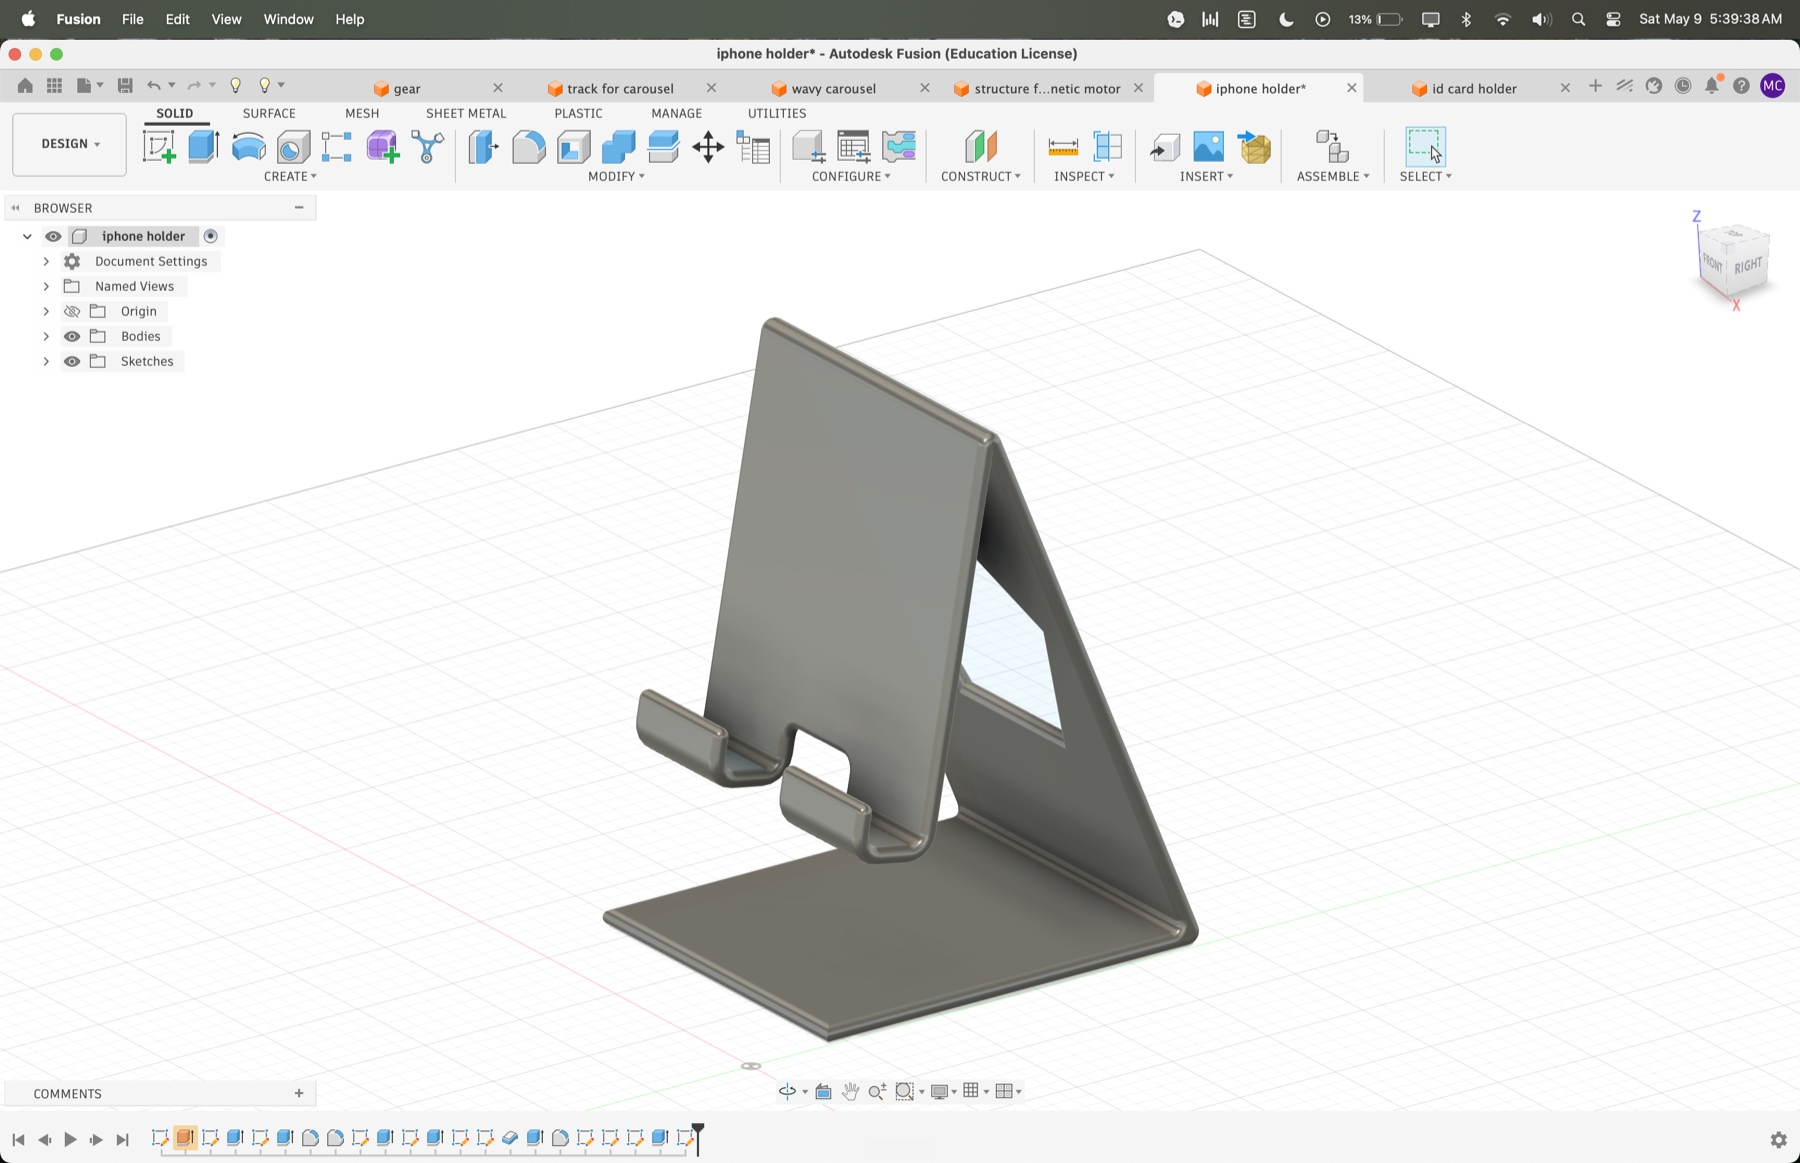
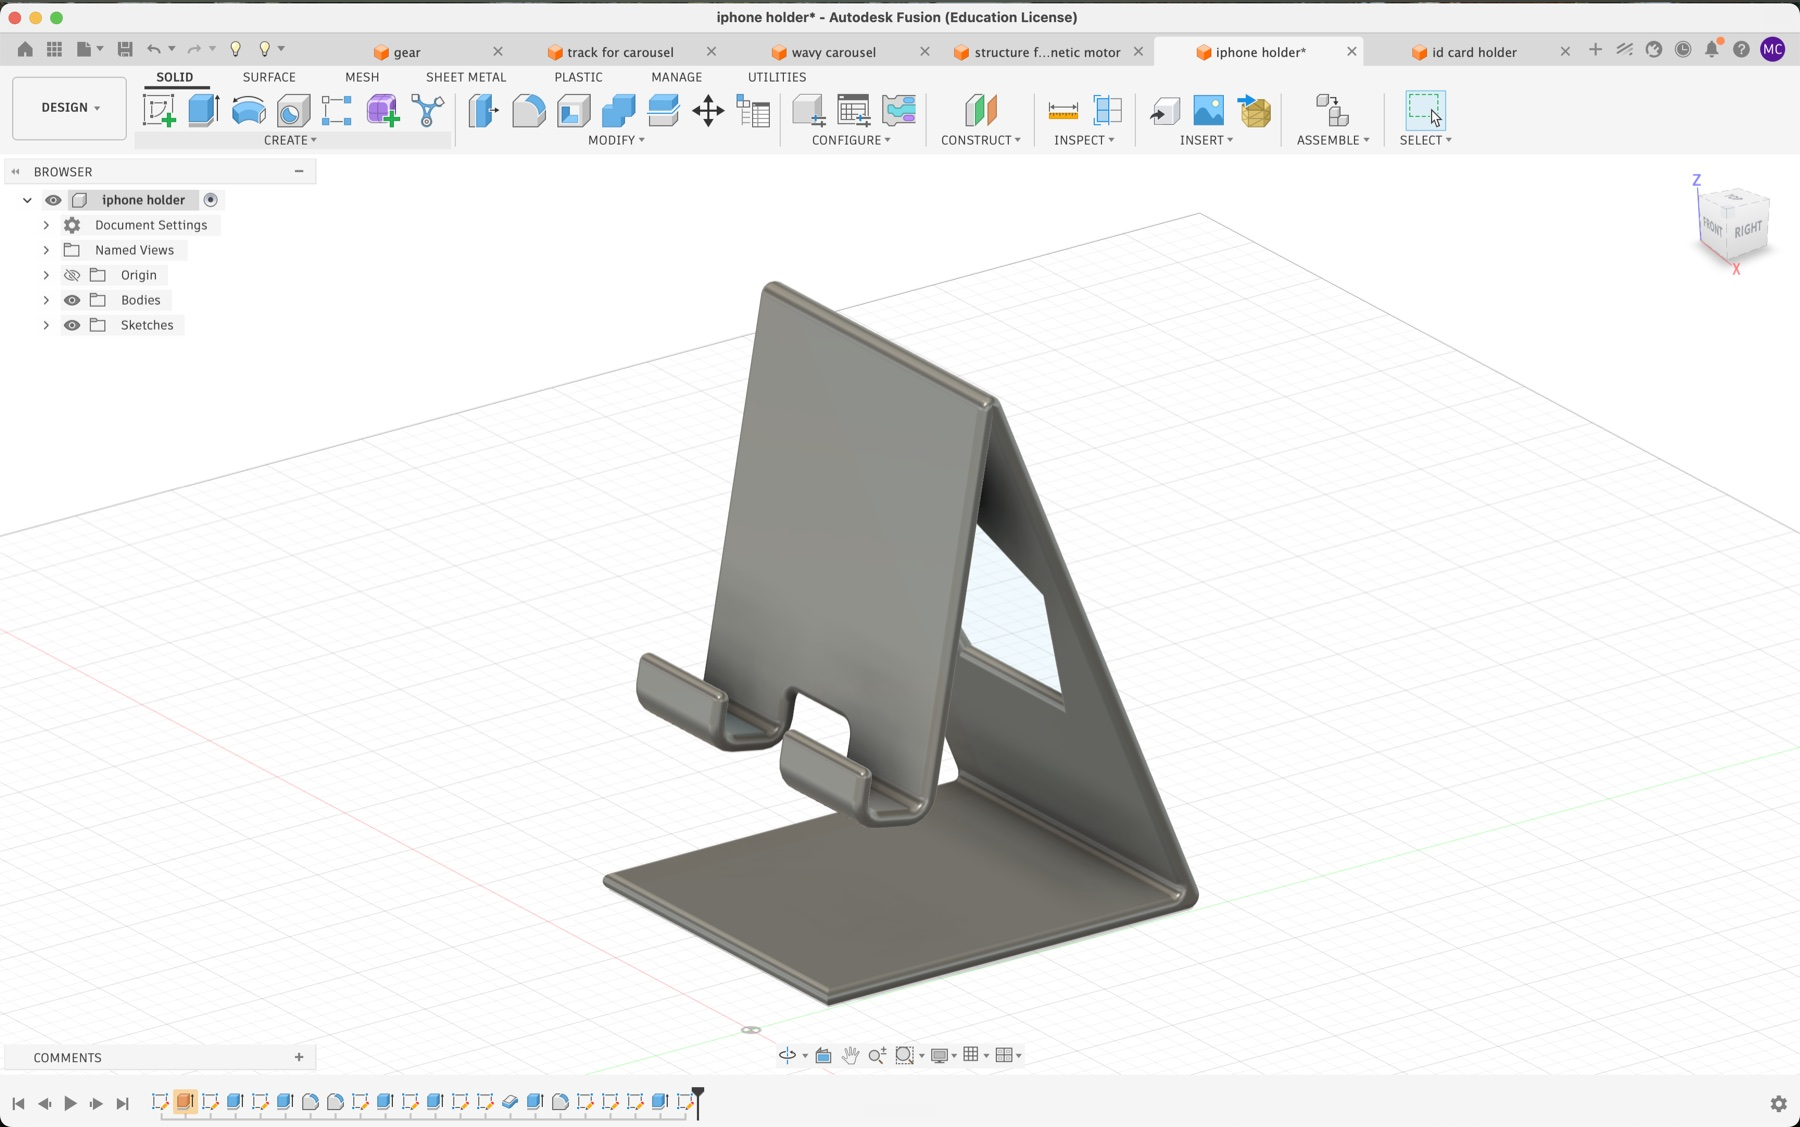
added week 5  edits

diff --git a/05_3Ddesign/index.html b/05_3Ddesign/index.html
@@ -125,13 +125,58 @@
   <figcaption>Photogrammetry scan of my face. The black hair did not capture well, but the face and neck came out well.</figcaption>
 </figure>
 
-<p><strong>Scan 1: My face.</strong> This was harder than I expected because I have black hair, and the scanner doesn't pick up dark surfaces well since there is not a lot of light reflecting back. The hair came out rough, but I got a nice clean scan of my face and neck.</p>
+<p><strong>Scan 1: My face.</strong> This was harder than I expected because I have black hair, and the scanner doesn't pick up dark surfaces well since there is not a lot of light reflecting back. The hair came out rough, but I got a nice clean scan of my face and neck. I couldn't embed the STL of my face because the file was too large, and viewstl.com has a maximum file size of 30 MB.</p>
+
 <p><strong>Scan 2: The Greek/Roman bust.</strong> I looked around the PS70 lab for objects that would be hard to recreate in Fusion the normal way, and found a bust of a Greek or Roman man sitting around. I did a trial scan on him and used the mesh isolation and fusion tools in RevoScan to clean up the extraneous parts of the scan I didn't want.</p>
+
+<figure class="video-embed">
+  <iframe id="bust_stl_iframe" src="https://www.viewstl.com/?embedded&amp;url=https%3A%2F%2Fmatthewchang0.github.io%2FPS70%2F05_3Ddesign%2Fbust-3dscan.stl" title="STL viewer for Greek or Roman bust scan" style="border:0;margin:0;width:100%;height:420px;"></iframe>
+  <figcaption>Embedded STL viewer for the Greek/Roman bust scan</figcaption>
+</figure>
+
 <p><strong>Scan 3: An SD card holder.</strong> I picked this one because it has a lot of small details that I thought would be tedious to model in CAD. The scan actually did a great job capturing the details, which I thought was impressive given how small the features are.</p>
 
-<h2>Reflection</h2>
-<p>The useful-object constraint made this assignment much more satisfying. The iPhone stand was a confidence boost because it went from sketch to CAD to a print that actually solves a small daily annoyance. The keycard holder was more stubborn, but it taught me a lot about tolerances, supports, and how much detail a printer can realistically resolve.</p>
-<p>The photogrammetry scans were the biggest surprise. I expected the results to feel rough and gimmicky, but RevoScan was able to preserve much more geometry than I thought it would, especially on the smaller SD card holder.</p>
+<figure class="video-embed">
+  <iframe id="sdcard_stl_iframe" src="https://www.viewstl.com/?embedded&amp;url=https%3A%2F%2Fmatthewchang0.github.io%2FPS70%2F05_3Ddesign%2Fsdcard-holder-3dscan.stl" title="STL viewer for SD card holder scan" style="border:0;margin:0;width:100%;height:420px;"></iframe>
+  <figcaption>Embedded STL viewer for the SD card holder scan</figcaption>
+</figure>
+
+<h2>Assignment 3: Final Project Updates</h2>
+<p>For my final project, I'm going to build a radio, which is something I've always wanted to make. The plan is to start with an MVP that's purely an internet radio, using Wi-Fi and some streaming API, and then expand outward from there. Eventually I want it to support real FM radio waves, Bluetooth audio, and MP3 playback from files stored on an SD card inside the radio itself.</p>
+<p>Here are the 3D models for the radio enclosure that I have right now. Eventually, I will need to have a larger enclosure, but this should suffice for the MVP.</p>
+
+<h3>Bill of Materials</h3>
+<p><strong>Electronics</strong></p>
+<ul>
+  <li>ESP32-S3 DevKit-C</li>
+  <li>MAX98357A I2S Amplifier</li>
+  <li>TEA5767 FM Radio Module</li>
+  <li>MicroSD Card Module</li>
+  <li>MicroSD Card</li>
+  <li>OLED Display 2.42"</li>
+  <li>KY-040 Rotary Encoders &times;2</li>
+  <li>Knobs &times;2</li>
+  <li>Push Buttons &times;4</li>
+  <li>3W 4&Omega; Full Range Speaker</li>
+</ul>
+
+<p><strong>Power</strong></p>
+<ul>
+  <li>Rechargeable 18650 Battery</li>
+  <li>HW-432 Boost Converter</li>
+  <li>Dual Slot 18650 Desktop Charger</li>
+  <li>Rocker Switch</li>
+  <li>USB-C Charging + File Transfer</li>
+  <li>USB-C Panel Mount Port</li>
+  <li>TP4056 Charger Module</li>
+  <li>5.1k&Omega; Resistors &times;2</li>
+</ul>
+
+<h3>Timeline</h3>
+<p><strong>Before spring break:</strong> Finish the MVP. That means a 3D printed enclosure for the radio, with the OLED and speaker connected and an internet stream playing through the ESP32.</p>
+<p><strong>By April 15:</strong> Order the FM chip and finalize all the physical components and the enclosure design, including where the buttons go, where the rechargeable battery sits, where the USB-C port is mounted, and where the knobs are placed.</p>
+<p><strong>By end of April:</strong> Design the PCB and mill a version of it on the PCB milling machine. The board should cleanly tie together the ESP32, FM chip, SD card module, and audio path so the internals aren't a rat's nest of jumper wires.</p>
+<p><strong>May:</strong> Use the remaining time for testing and any refinements the build needs.</p>
 
 <footer>
   <a href="../index.html">&larr; matthew's ps70</a>